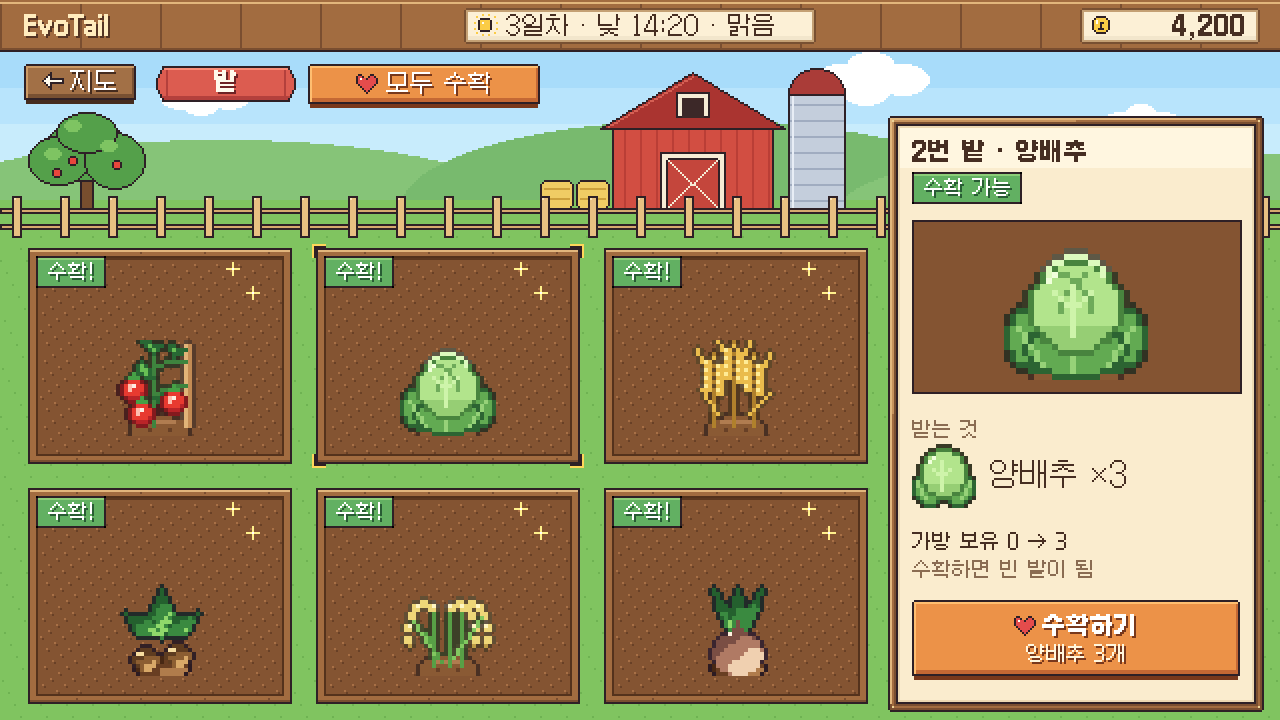
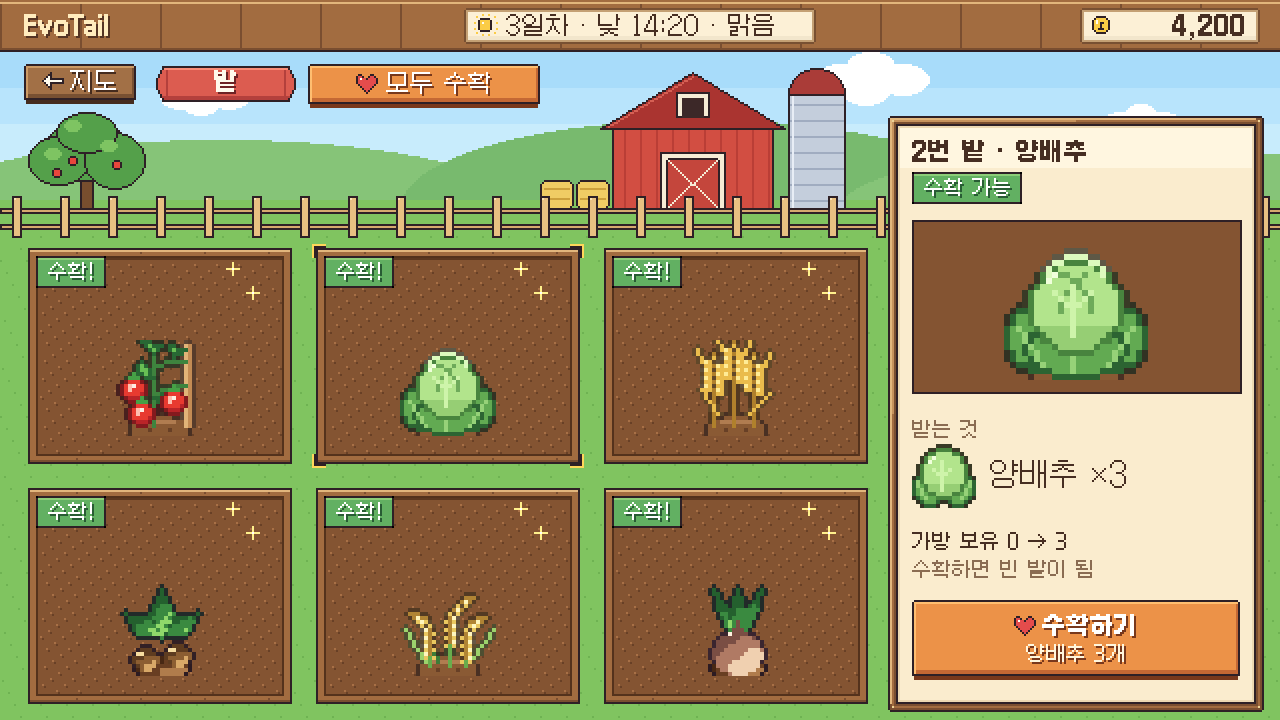
밭: 쌀 그림 교체 · 모두 수확 알림 짧게 · 수확 연출 중 "빈 밭" 숨김
- 쌀: 다 자란 벼(고개 숙인 벼) rice_ripe.png, 재료 그림 rice.png(삼베 자루 + 흰 쌀), tools/farm_icons.py rice_icon·ripe_rice v4, 목업 farm_A3 갱신
- 모두 수확 알림: "6칸 수확 · 작물 18개" (실제 수확 결과로 셈). 한 칸 수확은 그대로 "토마토 +3"
- 수확 연출(0.6초) 동안 그 칸의 "빈 밭" 글씨 숨김
- CLAUDE.md: 쌀 재료 그림은 farm_icons.py rice_icon()으로 (food_icons.py rice()는 옛 그림)

Changed region(s): [[0.3125, 0.825, 0.4062, 0.9472]]

diff --git a/tools/farm_icons.py b/tools/farm_icons.py
@@ -224,3 +224,76 @@ def cabbage_icon():     # 재료 아이콘 16: 겉잎 + 속통 + 잎맥
     d.line((7, 4, 7, 11), fill=(206, 244, 170)); d.line((7, 8, 5, 6), fill=(206, 244, 170)); d.line((7, 8, 9, 6), fill=(206, 244, 170))
     d.point([(4, 4), (5, 3)], fill=(240, 255, 220)); d.line((3, 13, 1, 9), fill=(150, 210, 120)); d.line((12, 13, 14, 9), fill=(150, 210, 120))
     return outline(im)
+
+
+# ================= v3: 쌀 다시 (벼 이삭 + 쌀 자루) =================
+def _grain(d, x, y, c0, c1, c2):
+    """낟알 하나 2x3: 밝은 위, 진한 아래"""
+    d.rectangle((x, y, x + 1, y + 2), fill=c1); d.point((x, y), fill=c0); d.point((x + 1, y + 2), fill=c2)
+
+
+def ripe_rice():
+    im = Image.new('RGBA', (24, 24)); d = ImageDraw.Draw(im)
+    _mound(d)
+    GR, GD, GL = (96, 168, 74), (58, 122, 56), (150, 206, 104)
+    Y0, Y1, Y2 = (255, 244, 176), (236, 196, 84), (184, 136, 48)
+    d.line((5, 20, 2, 11), fill=GL); d.line((18, 20, 22, 10), fill=GL); d.line((7, 20, 5, 14), fill=GD)   # 긴 잎
+    # 줄기 3개: 위로 올라가다 끝에서 옆으로 휘고, 이삭이 아래로 늘어짐
+    for sx, top, side in ((8, 6, -1), (12, 3, 1), (16, 7, 1)):
+        d.line((sx, 21, sx, top + 1), fill=GR)
+        d.line((sx, top + 1, sx + side, top), fill=GR); d.line((sx + side, top, sx + side * 2, top), fill=Y2)
+        hx = sx + side * 3                                                                               # 늘어진 이삭 줄기
+        d.line((sx + side * 2, top, hx, top + 1), fill=Y2); d.line((hx, top + 1, hx, top + 9), fill=Y2)
+        for i in range(4):                                                                               # 낟알: 이삭 양옆으로
+            y = top + 1 + i * 2
+            _grain(d, hx - 2, y, Y0, Y1, Y2); _grain(d, hx + 1, y + 1, Y0, Y1, Y2)
+        _grain(d, hx - 1 if side > 0 else hx, top + 9, Y0, Y1, Y2)
+    return outline(im)
+
+
+RIPE['rice'] = ripe_rice
+
+
+def rice_icon():        # 재료 아이콘 16: 열린 삼베 자루 + 흰 쌀 + 흘린 낟알
+    im = Image.new('RGBA', (16, 16)); d = ImageDraw.Draw(im)
+    S0, S1, S2 = (232, 204, 150), (204, 168, 108), (156, 120, 70)
+    d.polygon([(3, 6), (12, 6), (14, 14), (1, 14)], fill=S1)                                           # 자루 몸통
+    d.line((2, 13, 13, 13), fill=S2); d.line((12, 7, 13, 13), fill=S2); d.line((3, 7, 2, 12), fill=S0)
+    for x, y in ((5, 9), (9, 11), (7, 12)): d.point((x, y), fill=S2)                                  # 삼베 결
+    d.rectangle((2, 5, 13, 6), fill=S0); d.line((2, 6, 13, 6), fill=S2)                                 # 접힌 입구
+    d.ellipse((3, 1, 12, 7), fill=(250, 250, 246))                                                     # 쌀 더미
+    for x, y in ((5, 3), (8, 2), (10, 4), (6, 5), (9, 5)): d.point((x, y), fill=(214, 214, 206))      # 낟알 결
+    d.point([(5, 2), (6, 2)], fill=(255, 255, 255))
+    for x, y in ((14, 15), (12, 15), (0, 15)): d.point((x, y), fill=(250, 250, 246))                  # 흘린 쌀
+    return outline(im)
+
+
+def ripe_rice():        # v4: 가늘게 휘어 늘어진 이삭 + 작은 낟알(1x2) 사이사이 띄움
+    import math
+    im = Image.new('RGBA', (24, 24)); d = ImageDraw.Draw(im)
+    _mound(d)
+    GR, GD, GL = (104, 172, 76), (60, 124, 56), (156, 210, 108)
+    Y0, Y1, Y2 = (255, 246, 190), (234, 200, 96), (176, 132, 52)
+    d.line((6, 20, 1, 12), fill=GL); d.line((17, 20, 23, 12), fill=GL); d.line((9, 20, 7, 15), fill=GD)
+    for sx, top, side, r in ((7, 8, -1, 5), (12, 4, 1, 6), (16, 9, 1, 5)):
+        d.line((sx, 21, sx, top + r), fill=GR)
+        cx, cy = sx + side * r, top + r                                                         # 휘는 중심
+        pts = []
+        for i in range(0, 13):
+            a = math.pi * (1 + i / 12 * .5) if side > 0 else math.pi * (2 - i / 12 * .5)
+            x = round(cx + r * math.cos(a)) if side > 0 else round(cx + r * math.cos(a))
+            y = round(cy + r * math.sin(a)); pts.append((x, y))
+        # 반원 위쪽 → 옆으로 → 아래로 늘어진 꼬리
+        arc = [(round(cx - side * r * math.cos(t)), round(cy - r * math.sin(t))) for t in [k * math.pi / 2 / 8 for k in range(9)]][::-1]
+        tail = [(arc[-1][0], arc[-1][1] + k) for k in range(1, 6)]
+        path = [(sx, top + r)] + arc + tail
+        for (x0, y0), (x1, y1) in zip(path, path[1:]): d.line((x0, y0, x1, y1), fill=Y2)
+        for k, (x, y) in enumerate(path[3:], 3):                                                # 낟알: 2칸마다 바깥쪽
+            if k % 2: continue
+            gx = x + (1 if side > 0 else -1)
+            d.point((gx, y), fill=Y0); d.point((gx, y + 1), fill=Y1)
+            d.point((x - (1 if side > 0 else -1), y + 1), fill=Y1)
+    return outline(im)
+
+
+RIPE['rice'] = ripe_rice

diff --git a/gui/scenes/farm.py b/gui/scenes/farm.py
@@ -201,16 +201,18 @@ class FarmScene(Scene):
             self.pops.append((i, res['crop'], time.time()))
 
     def harvest_all(self):
-        got = {}
+        """다 자란 밭을 차례로 수확. 알림은 짧게 "6칸 수확 · 작물 18개" (실제 수확 결과로 셈)."""
+        plots, total = 0, 0
         for p in list(self.plots()):
             if p.get('ready'):
                 res = self.app.call('harvest_crop', index=p['index'])
                 if res:
-                    got[res['crop']] = got.get(res['crop'], 0) + res['count']
+                    plots += 1
+                    total += res['count']
                     self.pops.append((p['index'], res['crop'], time.time()))
         self.app.refresh()
-        if got:
-            self.app.toast(' · '.join(f"{self.label(c)} +{n}" for c, n in got.items()), 'ok', 'heart')
+        if plots:
+            self.app.toast(f"{plots}칸 수확 · 작물 {total}개", 'ok', 'heart')
 
     def ask_expand(self):
         i = len(self.plots())
@@ -324,7 +326,9 @@ class FarmScene(Scene):
             else:
                 if i == self.selected and self.seed and self.seeds(self.seed) and not popping:   # 심을 자리 미리보기
                     surface.blit(self.plants.get('sprout', 2, 128), pos)
-                text(surface, '빈 밭', (r.centerx, r.y + 10), 'small', (236, 210, 180), 'midtop', shadow=(90, 56, 30))
+                if not popping:          # 수확 연출 동안은 "빈 밭" 글씨 숨김
+                    text(surface, '빈 밭', (r.centerx, r.y + 10), 'small', (236, 210, 180), 'midtop',
+                         shadow=(90, 56, 30))
         if i == self.selected:
             select_frame(surface, r.inflate(4, 4))
 

diff --git a/CLAUDE.md b/CLAUDE.md
@@ -206,6 +206,7 @@ CHARACTERS.md        캐릭터 목록 · GUI.md 화면 구조 설명
 - 파일 이름 = 백엔드 id (재료 `potato.png`, 레시피 `butter_potato.png`). `food_<id>`, `food_perfect_<id>`는 레시피 그림을 쓰고 대성공은 그림을 가리지 않는 작은 별 배지(`star_badge`). 대성공 요리 이름은 "대성공 감자버터구이"
 - 이름: 재료는 백엔드 상점 목록 label (없으면 `assets/food/food_icons.json` name). 그림이 없는 재료(돼지고기·양배추)는 키트 아이콘으로 대신
 - 다시 만들기: `tools/food_icons.py`(음식 그림), `tools/home_mock.py`(주방 목업·배경)
+  - **쌀 재료 그림**(`assets/food/rice.png`, 삼베 자루 + 흰 쌀)은 `tools/farm_icons.py`의 `rice_icon()`으로 만든다. `tools/food_icons.py`의 `rice()`는 옛 그림이라 쓰지 않음. 다 자란 벼(`rice_ripe.png`, 고개 숙인 벼)도 `farm_icons.py`의 `ripe_rice()` v4
 
 ## 상점 · 알 부화 (목업 `docs/mockups/shop/`, `gui/scenes/shop.py` `ShopScene`, `gui/scenes/hatch.py`)
 지도 "상점" 건물 → 상점. 배경 `assets/shop/shop.png`(1280×720, ½로 그대로, 위 26px 투명 = 상단 바 자리)
@@ -229,12 +230,12 @@ CHARACTERS.md        캐릭터 목록 · GUI.md 화면 구조 설명
 
 ## 밭 (목업 `docs/mockups/farm/`, `gui/scenes/farm.py` `FarmScene`, A안)
 지도 "밭" 건물 → 밭. 배경 `assets/farm/farm.png`(1280×720, ½로 그대로, 위 26px 투명)
-- 위: ◀ 지도 + 리본 "밭" + 정보 칸 "심고 10분 · 수확 3개". 다 자란 밭이 하나라도 있으면 그 자리에 주황 "모두 수확" → ready인 밭마다 `harvest_crop(index)`을 차례로, 끝나면 "토마토 +3 · 양배추 +3" 알림 한 번
+- 위: ◀ 지도 + 리본 "밭" + 정보 칸 "심고 10분 · 수확 3개". 다 자란 밭이 하나라도 있으면 그 자리에 주황 "모두 수확" → ready인 밭마다 `harvest_crop(index)`을 차례로, 끝나면 짧은 알림 한 번 "6칸 수확 · 작물 18개"(칸 수·개수는 실제 수확 결과). 한 칸 수확은 "토마토 +3"
 - 왼쪽 텃밭 6칸(3열 × 2줄, 나무 틀 + 흙 점무늬는 코드로 그림 `soil_tile`, tools/farm_mock.py soil()과 같음). 상태는 스냅샷 `plots`(index, crop, ready, end, remaining_seconds), 남은 시간은 `end - app.now()`로 계속 줄어듦
   - 자라는 중: 왼쪽 위 갈색 칩 "4:12" + 아래 초록 진행 게이지 / 다 자람: 초록 칩 "수확!" + 천천히 깜빡이는 반짝이 / 빈 밭: "빈 밭" + 고른 칸에 고른 씨앗 새싹 반투명 미리보기(씨앗이 있을 때)
   - 안 산 칸: 풀밭 + 팻말. 바로 다음 칸만 밝은 팻말 "밭 넓히기 + 코인"(`get_rules()['plot_costs'][칸 번호]`, 최대 칸 수 = plot_costs 길이), 그 뒤는 어두운 팻말 "잠김". 고른 칸은 노란 꺾쇠(`select_frame`)
 - 오른쪽 칸: 빈 밭 = 씨앗 카드 2열 × 3줄(봉투 ×2, 이름, "보유 N", 0이면 빨강 + 반투명), "씨앗 1개 → 감자 3개", "씨앗은 상점에서 N코인"(상점 목록 buy), "감자 심기"(아래 "10분 뒤 수확", 씨앗 0이면 회색 "씨앗 없음") = `plant_crop(index, crop)` / 자라는 중 = 큰 그림 ×3, 남은 시간 + 게이지, "다 자라면 감자 ×3" / 다 자람 = "수확 가능" 칩, 큰 그림, "받는 것: 토마토 ×3", "가방 보유 2 → 5", "수확하기" = `harvest_crop(index)` / 안 산 칸 = 팻말 + 가격 + "밭 넓히기" → 확인 창 → `expand_plot`(코인 부족 등은 백엔드 알림)
-- 수확하면 그 칸에서 작물 아이콘 3개가 위로 톡 튀었다 사라짐(0.6초) + "토마토 +3" 알림
+- 수확하면 그 칸에서 작물 아이콘 3개가 위로 톡 튀었다 사라짐(0.6초, 그동안 "빈 밭" 글씨·새싹 미리보기 숨김) + "토마토 +3" 알림
 - **작물 그림** `assets/farm/plants/`: seeded / sprout / growing / `<작물>_ripe` (원본 24×24, 파일 4배 96). 밭 칸 ×2(48), 오른쪽 ×3(72). 단계는 진행 = 1 - 남은 시간 / 자라는 시간 → `plants.json`의 구간(0~20% seeded, 20~55% sprout, 55~100% growing, ready면 ripe)
 - **GUI 표시값** (`farm.FARM_DISPLAY`): 자라는 시간 600초, 수확 개수 3개. 백엔드 `config.CROP_DURATION`·`CROP_YIELD`인데 `get_rules`·스냅샷에 안 나와서 GUI에 둠. 백엔드 값을 바꾸면 같이 바꿀 것 (기영님께 `get_rules`에 넣어 달라고 요청 가능). 밭 가격은 `get_rules()['plot_costs']` 백엔드 값
 - 작물·씨앗 이름은 상점 목록 label. 양배추 재료 그림 `assets/food/cabbage.png`(food_icons.json에 추가)
